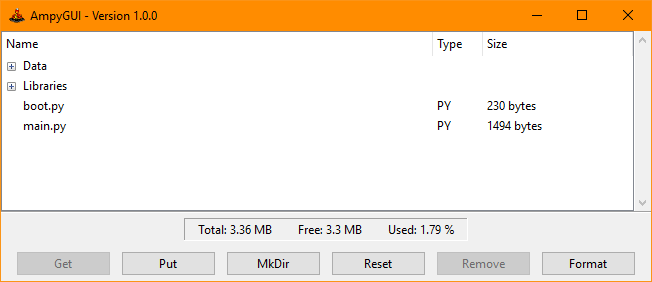
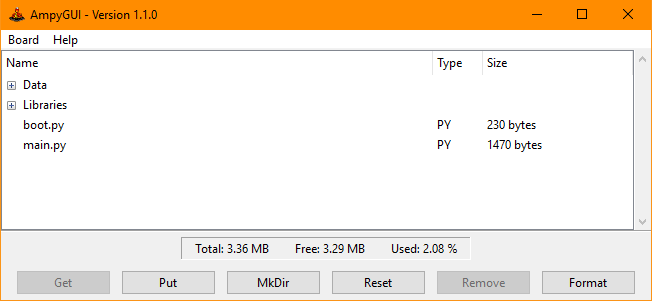
Update README.md

diff --git a/AmpyGUI_Data/About.py b/AmpyGUI_Data/About.py
@@ -35,7 +35,7 @@ class About(Toplevel):
 
         bind_frame = Frame(label_frame_bind)
 
-        Label(bind_frame, text="Ampy\nMpy_cross\nTkinter\nPython 3.7").pack(fill=BOTH, expand=YES)
+        Label(bind_frame, text="Ampy\nMpy_cross\nTkinter\nPillow\nPython 3.7").pack(fill=BOTH, expand=YES)
 
         bind_frame.pack(fill=BOTH, expand=YES)
         label_frame_bind.pack(fill=BOTH, expand=YES, padx=20, pady=10)

diff --git a/README.md b/README.md
@@ -4,6 +4,7 @@ A graphical interface for Ampy (https://github.com/scientifichackers/ampy)
 ## Features
 * Get (download) files.
 * Put (upload) files or folder.
+* Convert python files to MPY format.
 * Make directory.
 * Soft reset.
 * Remove files or folder.
@@ -12,11 +13,11 @@ A graphical interface for Ampy (https://github.com/scientifichackers/ampy)
 
 ## Requirements
 * You need at least Python 3.6 or later.
-* Following Python packages: adafruit-ampy, tkinter, pillow.
+* Following Python packages: adafruit-ampy, tkinter, pillow, mpy-cross.
 
 ## Good to know
 * Binary for Windows are available at https://github.com/FlorianPoot/AmpyGUI/releases.
-* It has only been tested with ESP8266 and ESP32 on MicroPython 1.11.
+* It has only been tested with ESP8266 and ESP32 on MicroPython 1.12.
 * Folders are determined by the lack of extension.
 
 ## Image
